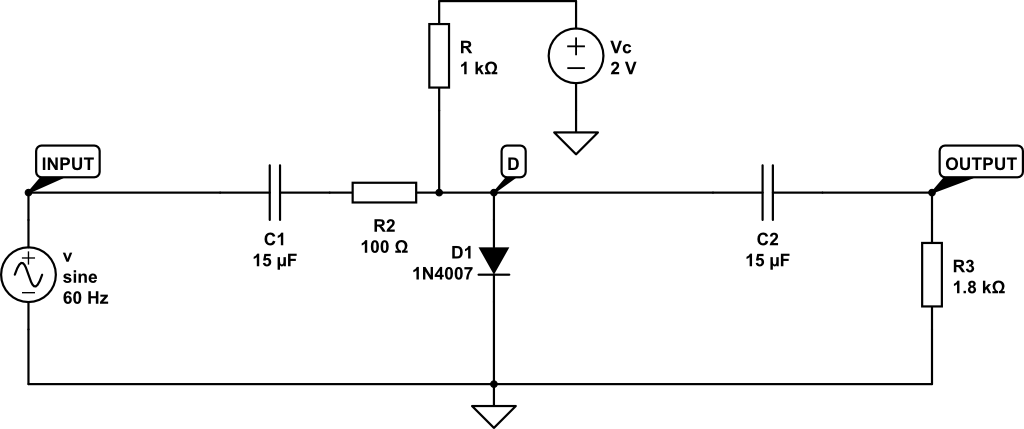
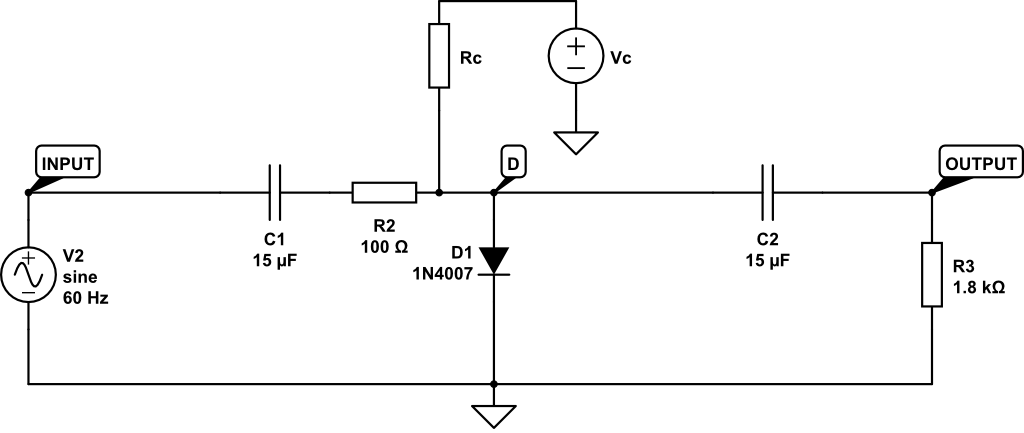
Niet-lineaire schakelingen verslag.
Conclusie moet ik nog even uitbreiden..

diff --git a/docs/niet-lineaire-schakelingen/luc-joris-erwin/niet-lineaire-schakelingen-waarden-bepalen.tex b/docs/niet-lineaire-schakelingen/luc-joris-erwin/niet-lineaire-schakelingen-waarden-bepalen.tex
@@ -8,8 +8,8 @@
 
 \begin{document}
 
-\chapter{Waarden voor $R_c$ en Vc bepalen}
-\label{ch:Waarden voor $R_c$ en Vc bepalen}
+\chapter{Waarden voor $R_c$ en $V_c$ bepalen}
+\label{ch:Waarden voor $R_c$ en $V_c$ bepalen}
 Voor het bepalen van de equivalente weerstand te bepalen voor weerstanden die parallel staan wordt de deze formule gebruikt:
 \begin{equation}
 \label{eq:resR}
@@ -26,11 +26,11 @@ V_o =V_i\cdot \frac{R_1}{R_1+R_2}
 \label{ch:Het klein-signaal model}
 \begin{figure}[h]
 \centering
-\includegraphics[width=\textwidth]{kleinsignaalmodel.png}
+\includegraphics[width=\textwidth]{Small-signal-model.png}
 
 \caption{klein-signaal model}
 \end{figure}
-Hierboven is het klein-signaal model weergeven van de spanningsgestuurde spanningsdeler. Als de waarde van $R_c$ te klein is dan zal er een grotere wisselspanning staan over de $100\Omega$ weerstand en dus is de spanning aan de uitgang lager. Hierdoor zal de maximale uitgangsspanning van de spanningsgestuurde spanningsdeler ook kleiner worden. Als de waarde van $R_c$ te groot is dan zal er een kleinere wisselspanning over de $100\Omega$ weerstand staan, waardoor de maximale uitgangsspanning groter is. Er is gekozen om een $1k\Omega$ weerstand te gebruiken voor $R_c$. Met behulp van vergelijking \ref{eq:resR} en \ref{eq:overdracht} is de maximale uitgangsspanning bepaald.
+Hierboven is het klein-signaal model weergeven van de spanningsgestuurde spanningsdeler. Als de waarde van $R_c$ te klein is dan zal er een grotere wisselspanning staan over de $100\Omega$ weerstand en dus is de spanning aan de uitgang lager. Hierdoor zal de maximale uitgangsspanning van de spanningsgestuurde spanningsdeler ook kleiner worden. Als de waarde van $R_c$ te groot is dan zal er een kleinere wisselspanning over de $100\Omega$ weerstand staan, waardoor de maximale uitgangsspanning groter is, maar er zijn grotere spanningen bij $V_c$ nodig om de diode een kleine weerstand te geven. Er moet dus een juiste balans gevonden worden voor deze weerstandswaarde. Er is gekozen om een $1k\Omega$ weerstand te gebruiken voor $R_c$. Hiermee kan met behulp van een labvoeding (0-20 Volt) een redelijk uitgangsspanningsbereik worden gerealiseerd.  Afhankelijk van de toepassing kan hier ook een andere waarde voor gekozen worden. Met behulp van vergelijking \ref{eq:resR} en \ref{eq:overdracht} is de maximale uitgangsspanning bepaald.
 
 
 $$
@@ -38,7 +38,16 @@ $$
 V_{max} = V_i * \frac{R_c||R_l}{R_c||R_l + 100} = 4.32 mV
 $$
 
-Een 1N4007 diode kan maximaal 1 watt aan vermogen dissiperen. Als Vc boven de 1000 volt komt, is het vermogen dat de diode dissipeert ongeveer 1 watt. Spanningen van 0 tot 1000 volt zijn dus bruikbaar. Hierbij is uitgegaan dat er ideale weerstanden, condensatoren en spanningsbronnen gebruikt worden.
+Als $V_c$ 20 Volt dan is $R_d$ gelijk aan $33\Omega$ en is de uitgangsspanning dus gelijk aan: 
+
+$$
+\label{eq:maximaalVoltage}
+V_{max} = V_i * \frac{R_d||R_c||R_l}{R_d||R_c||R_l + 100} = 1.19 mV
+$$
+
+Met een reguliere labvoeding (0-20 Volt) kan een uitgangsspanningsbereik van 4.32 mV tot 1.19 mV gerealiseerd worden.
+
+In principe kunnen er hele hoge spanningen ( tot 2000 Volt) gebruikt worden om een kleinere uitgangsspanning te krijgen. In theorie blijft gelden: hoe hoger de spanning, hoe kleiner de uitgangsspanning. Een 1N4007 diode kan maximaal 2 watt aan vermogen dissiperen. Als $V_c$ boven de 2000 volt komt, is het vermogen dat de diode dissipeert ongeveer 2 watt. Spanningen van 0 tot 2000 volt zijn dus bruikbaar. Hierbij is uitgegaan dat er ideale weerstanden, condensatoren en spanningsbronnen gebruikt worden.
 
 
 

diff --git a/docs/niet-lineaire-schakelingen/luc-joris-erwin/niet-lineaire-schakelingen-eerste-simulatie.tex b/docs/niet-lineaire-schakelingen/luc-joris-erwin/niet-lineaire-schakelingen-eerste-simulatie.tex
@@ -11,9 +11,9 @@
 \chapter{Eerste simulatie van het circuit}
 \label{ch:Eerste simulatie van het circuit}
 
-Om de diode als een spannings-gestuurde spanningsdeler te gebruiken is het belangrijk om een juiste keuze voor de waardes van $R$ en $Vc$ te maken. Aangezien het analytisch oplossen van niet-lineaire schakelingen zeer lastig is is het gebruik van een simulatieprogramma ideaal om een goede benadering te krijgen van de benodigde waardes. In plaats van de aangewezen Falstad simulator hebben wij gebruik gemaakt van de CircuitLab simulator. Deze simulator is vriendelijker in gebruik terwijl hij wel op het geavanceerdere  Spice is gebaseerd, hierdoor is het voor ons makkelijk om nauwkeurige simulaties uit te voeren.
+Om de diode als een spannings-gestuurde spanningsdeler te gebruiken is het belangrijk om een juiste keuze voor de waardes van $R_c$ en $V_c$ te maken. Aangezien het analytisch oplossen van niet-lineaire schakelingen zeer lastig is, is het gebruik van een simulatieprogramma ideaal om een goede benadering te krijgen van de benodigde waardes. In plaats van de aangewezen Falstad simulator hebben wij gebruik gemaakt van de CircuitLab simulator. Deze simulator is vriendelijker in gebruik terwijl hij wel op het geavanceerdere  Spice is gebaseerd, hierdoor is het voor ons makkelijk om nauwkeurige simulaties uit te voeren.
 \newline
-De karakteristiek die wij zoeken bij een goed functionerende schakeling is een lineair verband tussen de stroom en de spanning. Ook willen we niet dat de instelspanning te hoog wordt. Bij de waardes $R1 = 1k\Omega$ en $V1 = 1V$ zien we deze karakteristiek terug en daarom hebben we deze gekozen als eerste ruwe waardes.
+De instelspanning mag niet te hoog worden en daarnaast moet het bereik van de uitgangsspanning groot genoeg zijn. Bij de waardes $R_c = 1k\Omega$ en $V_c = 1V$ zien we deze karakteristiek terug en daarom hebben we deze gekozen als eerste ruwe waardes.
 
 
 \end{document}

diff --git a/docs/niet-lineaire-schakelingen/luc-joris-erwin/niet-lineaire-schakelingen-groot-signaal.tex b/docs/niet-lineaire-schakelingen/luc-joris-erwin/niet-lineaire-schakelingen-groot-signaal.tex
@@ -20,13 +20,6 @@ We zien dat de wisselspanningsbron is weggevallen aangezien deze een klein-signa
 	\label{fig:groot}
 \end{figure}
 
-\noindent Wanneer we een DC-sweep uitvoeren voor Vc met CircuitLab met betrekking op de stroom door de diode krijgen we de grafiek uit figuur \ref{fig:iv-groot}. Hier valt op te merken dat tot ongeveer 1V een non-lineair verband bestaat tussen de stroom door de diode en de instelspanning. Bij 1.1V kan de spanning verhoogt of verlaagt worden zonder dat het systeem zijn lineariteit verliest. Vandaar dat we 1.1V als instelpunt hebben gebruikt. Uit de simulatie is ook verkregen dat bij dit instelpunt van 1.1V er een spanning van 839.0mV staat over de diode.
-
-\begin{figure}[H]
-	\centering
-	\includegraphics[width=1.1\textwidth]{iv-groot.png}
-	\caption{$iv$-karakteristiek van de grootsignaal schakeling}
-	\label{fig:iv-groot}
-\end{figure}
+\noindent Bij 1.1V is de weerstand van de diode ongeveer gelijk aan $R_c$ en dus is de spanning over $R_c$ ongeveer gelijk aan de spanning over de diode bij 1.1V. Vandaar dat we 1.1V als instelpunt hebben gebruikt. Uit de simulatie is ook verkregen dat bij dit instelpunt van 1.1V er een spanning van 839.0mV staat over de diode.
 
 \end{document}

diff --git a/docs/niet-lineaire-schakelingen/luc-joris-erwin/niet-lineaire-schakelingen-inleiding.tex b/docs/niet-lineaire-schakelingen/luc-joris-erwin/niet-lineaire-schakelingen-inleiding.tex
@@ -15,7 +15,7 @@ In dit verslag behandelen wij de spanningsgestuurde spanningsdeler m.b.v. een di
 Aangezien de groep is verdeeld in twee delen behandelen wij hier de eerste opdracht om deze uit te leggen aan de andere groep welke de tweede opdracht heeft behandeld. Bij deze uitleg geven wij de uitwerkingen van de opgaves op een verklarende manier.
 \newline
 
-\noindent De schakeling van de spanningsdeler is gegeven in de handleiding van de JIT: niet-lineaire schakelingen. Deze geven wij nogmaals in figuur \ref{fig:totaalschema}. Het ingangssignaal wordt gemodelleerd door een wisselspanningsbron van 60Hz met een amplitude van 50mA. De instelspanning V1 en de instelweerstand R1 moeten we in deze opdracht bepalen.
+\noindent De schakeling van de spanningsdeler is gegeven in de handleiding van de JIT: niet-lineaire schakelingen. Deze geven wij nogmaals in figuur \ref{fig:totaalschema}. Het ingangssignaal wordt gemodelleerd door een wisselspanningsbron van 60Hz met een amplitude van 50mA. De instelspanning $V_c$ en de instelweerstand $R_c$ moeten we in deze opdracht bepalen.
 
 \begin{figure}[H]
 	\centering

diff --git a/docs/niet-lineaire-schakelingen/luc-joris-erwin/niet-lineaire-schakelingen-conclusie.tex b/docs/niet-lineaire-schakelingen/luc-joris-erwin/niet-lineaire-schakelingen-conclusie.tex
@@ -11,6 +11,7 @@
 \chapter{Conclusie}
 \label{ch:conclusie}
 
-
-
+Het werken met een spanningsgestuurde spanningsdeler met behulp van een diode geeft ons inzicht in de werking van niet-lineaire elektrische componenten.
+ 
+In het klein-signaal model is goed de werking van het circuit te zien. Met dit circuit kunnen we doormiddel van een regelbare gelijkspanning de weerstand van de diode regelen, waardoor de ingangsspanning op een andere manier gedeeld wordt. Deze gedeelde spanning is de uitgangsspanning.
 \end{document}

diff --git a/docs/niet-lineaire-schakelingen/luc-joris-erwin/niet-lineaire-schakelingen-luc-joris-erwin.tex b/docs/niet-lineaire-schakelingen/luc-joris-erwin/niet-lineaire-schakelingen-luc-joris-erwin.tex
@@ -23,6 +23,7 @@
 \subimport{}{niet-lineaire-schakelingen-groot-signaal}
 \subimport{}{niet-lineaire-schakelingen-simulatie-diode}
 \subimport{}{niet-lineaire-schakelingen-waarden-bepalen}
+\subimport{}{niet-lineaire-schakelingen-conclusie}
 
 %\newpage
 %\pagenumbering{Roman}
